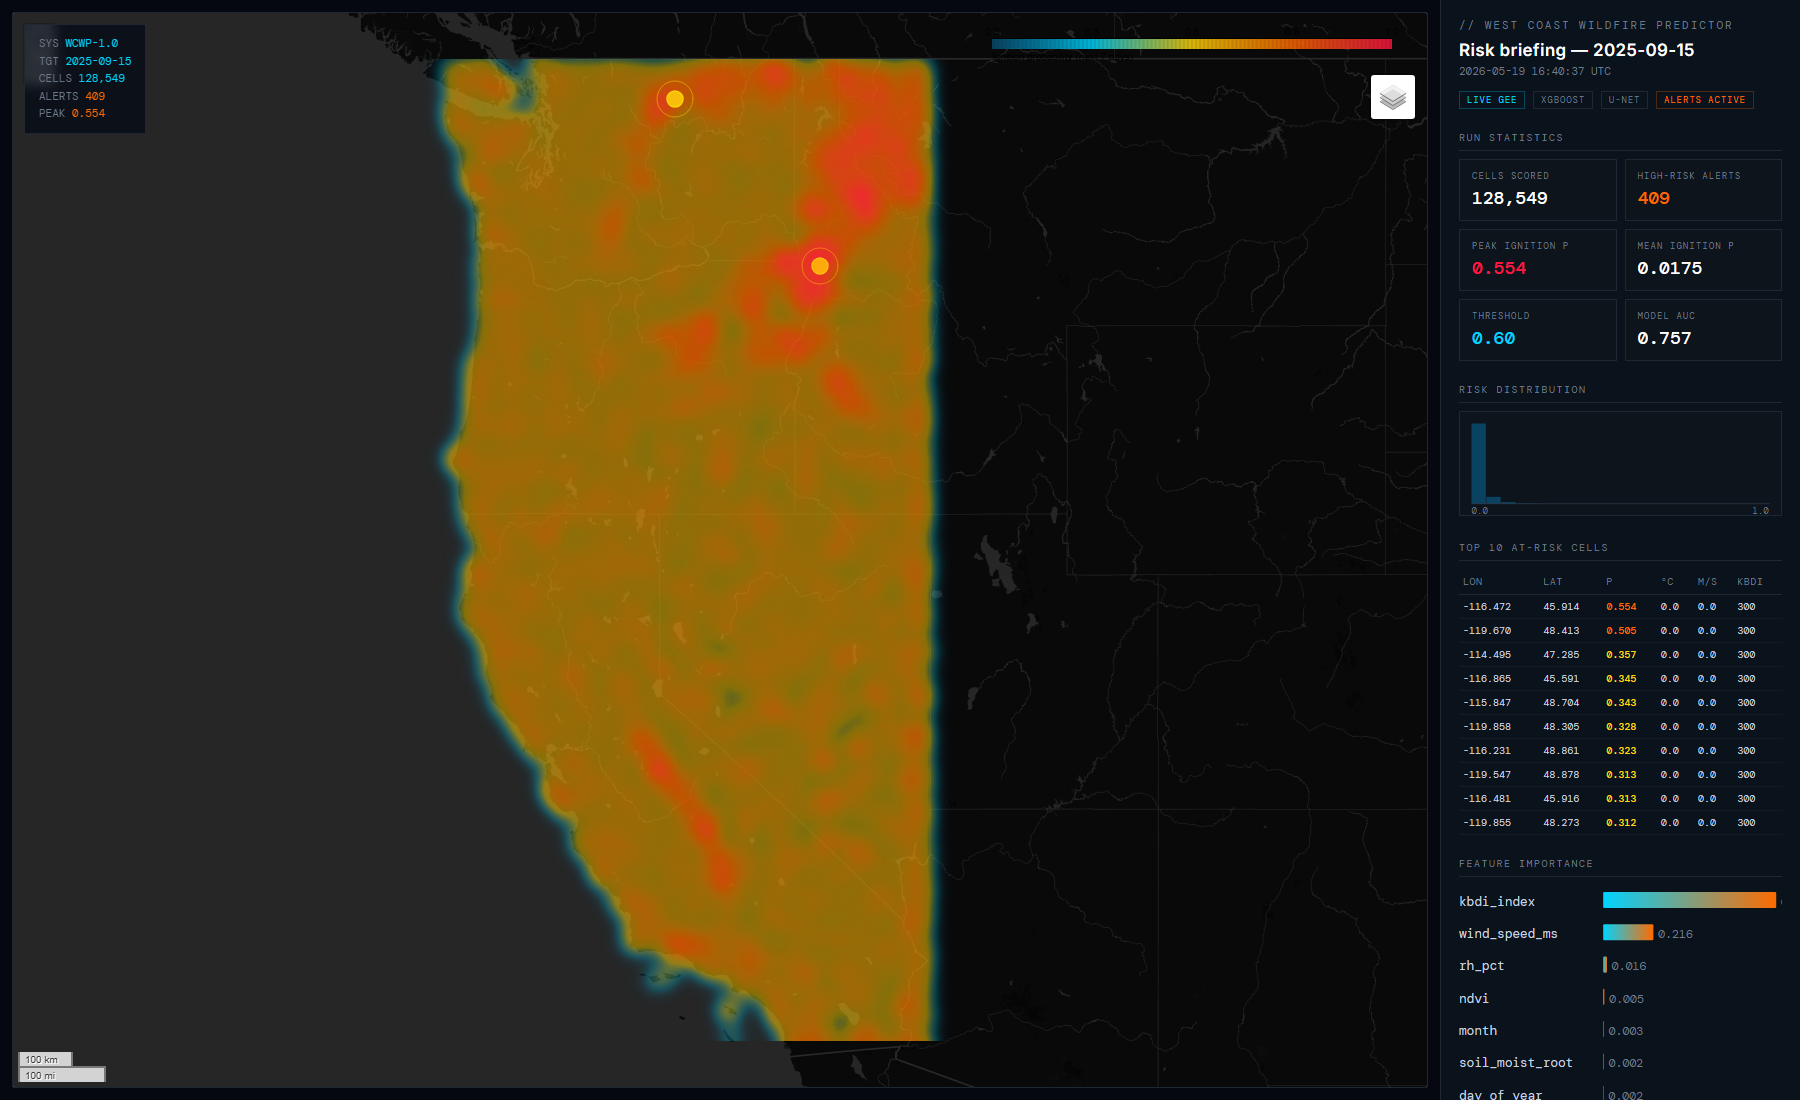
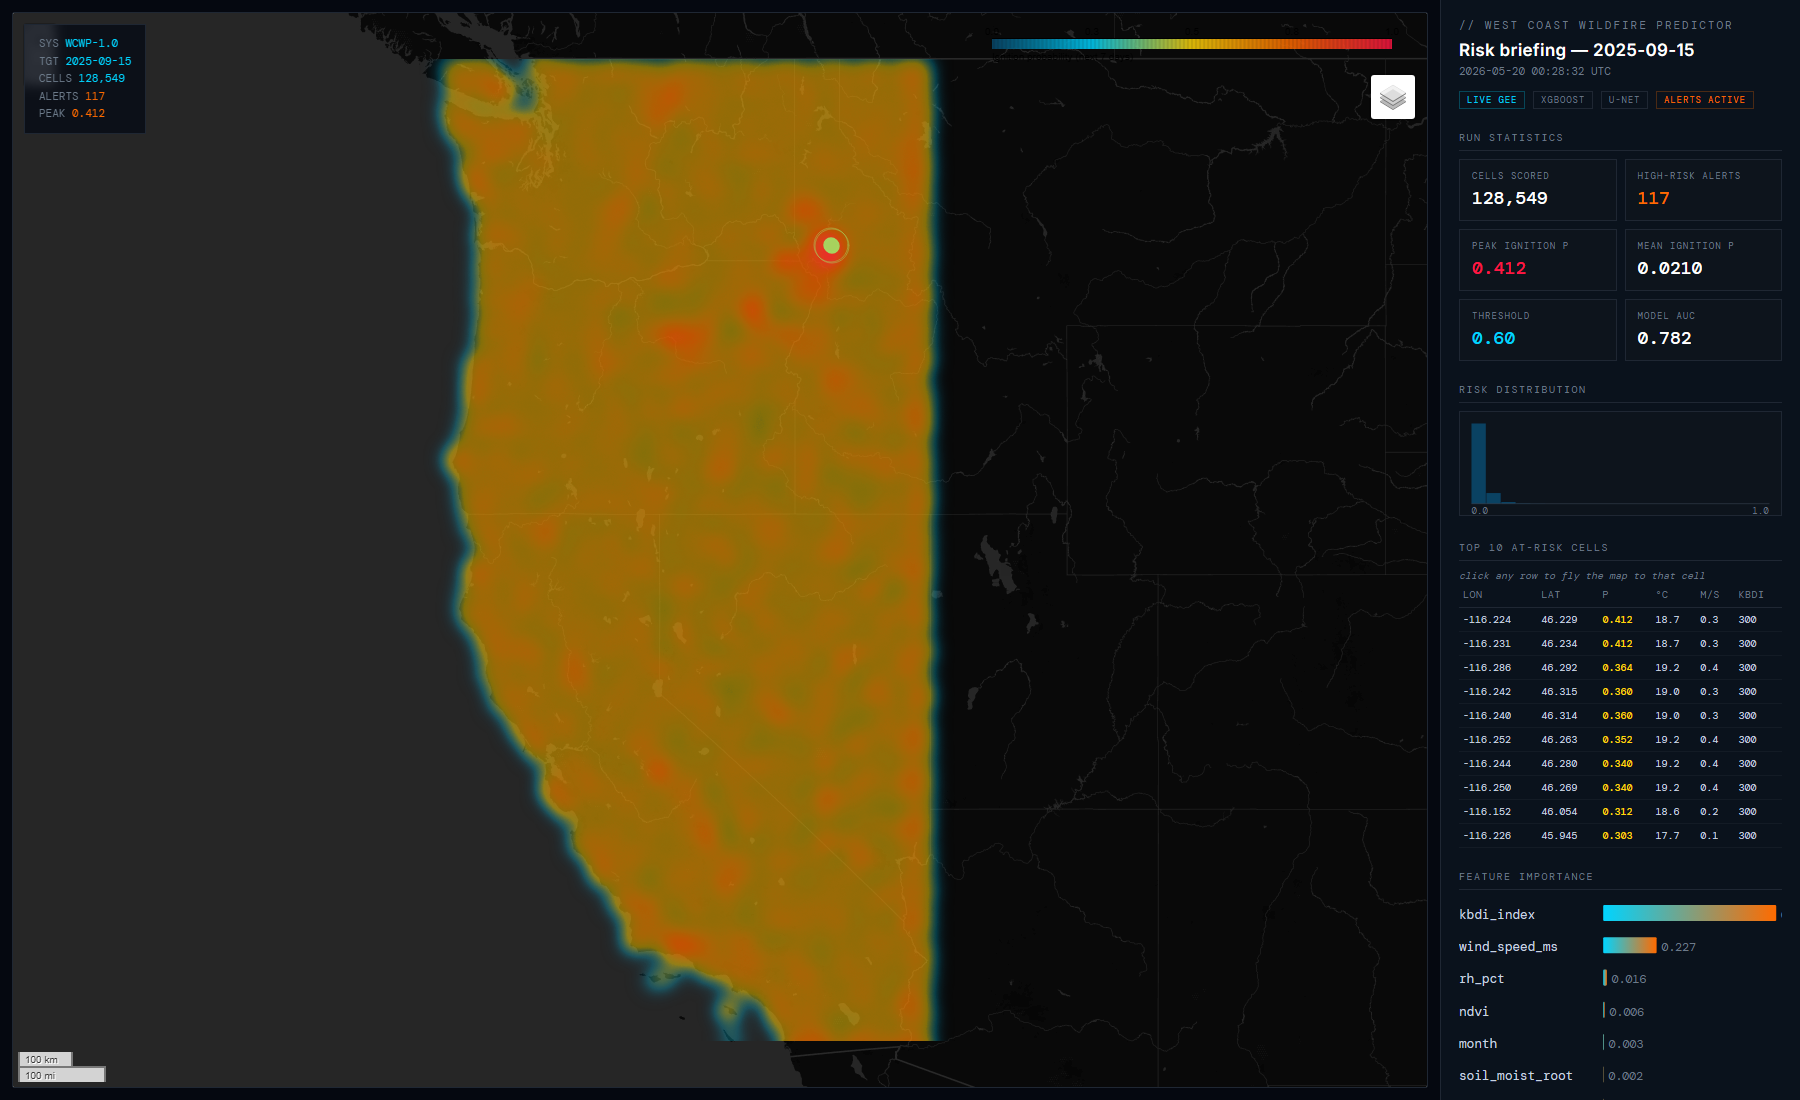
feat: clickable Top-10 rows — click any row to fly the map to that cell
Adds a postMessage bridge between the HUD shell and the folium iframe:

  * Each Top-10 table row now carries data-lat / data-lon attributes and
    a 'clickable' class with hover/active state styling.
  * On row click, the parent page postMessages {action: 'flyTo', lat, lon,
    zoom: 9} to the iframe's contentWindow.
  * Inside the iframe we inject a listener (just before </body>) that
    locates the folium-generated map_<hash> global, calls .flyTo() with a
    1.4s duration animation, and pulses a temporary 24-px cyan ring at the
    destination for 2.2s so the user can see where the map landed.

The folium iframe stays sandboxed (allow-scripts, allow-same-origin,
allow-popups) so the message channel still works.

Also re-rendered docs/screenshots/heatmap.png from the actual dashboard
now that temps and wind speeds are populated (predict.py fix in the
previous commit).

diff --git a/wildfire/heatmap.py b/wildfire/heatmap.py
@@ -241,7 +241,8 @@ def _hud_shell(map_html: str, scored: pd.DataFrame, meta: dict,
 
     top10 = scored.sort_values("fire_probability", ascending=False).head(10)
     top_rows = "".join(
-        f"<tr><td>{r['longitude']:.3f}</td><td>{r['latitude']:.3f}</td>"
+        f"<tr class='clickable' data-lat='{r['latitude']:.4f}' data-lon='{r['longitude']:.4f}'>"
+        f"<td>{r['longitude']:.3f}</td><td>{r['latitude']:.3f}</td>"
         f"<td class='p' style='color:{_band(r['fire_probability'])}'>"
         f"{r['fire_probability']:.3f}</td>"
         f"<td>{r.get('temp_c', 0):.1f}</td>"
@@ -314,7 +315,11 @@ th {{ color: #6c7a89; text-align: left; padding: 6px 4px; border-bottom: 1px sol
       font-weight: 400; letter-spacing: 0.05em; text-transform: uppercase; }}
 td {{ padding: 5px 4px; border-bottom: 1px solid #131b25; color: #c8d3e0; }}
 td.p {{ font-weight: 500; }}
-tr:hover td {{ background: #0d141c; }}
+tr.clickable {{ cursor: pointer; transition: background 0.1s; }}
+tr.clickable:hover td {{ background: #1a2532; color: #00d4ff; }}
+tr.clickable:active td {{ background: #00d4ff22; }}
+.hint {{ font-family: 'DM Mono', monospace; font-size: 10px; color: #6c7a89;
+        margin-top: 6px; font-style: italic; }}
 .meta {{ font-family: 'DM Mono', monospace; font-size: 10px; color: #6c7a89;
          line-height: 1.7; margin-top: 18px; padding-top: 14px;
          border-top: 1px solid #1f2733; }}
@@ -370,7 +375,8 @@ tr:hover td {{ background: #0d141c; }}
     {hist_svg}
 
     <h2>Top 10 at-risk cells</h2>
-    <table>
+    <div class="hint">click any row to fly the map to that cell</div>
+    <table id="top10">
       <thead><tr><th>Lon</th><th>Lat</th><th>p</th><th>°C</th><th>m/s</th><th>KBDI</th></tr></thead>
       <tbody>{top_rows}</tbody>
     </table>
@@ -389,6 +395,24 @@ tr:hover td {{ background: #0d141c; }}
     </div>
   </div>
 </div>
+
+<script>
+// Bridge between HUD table rows and the Leaflet map inside the iframe.
+// Each row carries data-lat/data-lon. On click we postMessage to the iframe
+// which has a listener that flies the Leaflet map to those coordinates.
+document.addEventListener('DOMContentLoaded', () => {{
+  const iframe = document.querySelector('.map iframe');
+  document.querySelectorAll('#top10 tbody tr.clickable').forEach(row => {{
+    row.addEventListener('click', () => {{
+      const lat = parseFloat(row.dataset.lat);
+      const lon = parseFloat(row.dataset.lon);
+      if (!isNaN(lat) && !isNaN(lon) && iframe && iframe.contentWindow) {{
+        iframe.contentWindow.postMessage({{action: 'flyTo', lat, lon, zoom: 9}}, '*');
+      }}
+    }});
+  }});
+}});
+</script>
 </body></html>
 """
 
@@ -412,10 +436,50 @@ def render(scored: pd.DataFrame, meta: dict, target_date: str, summary: dict,
     print(f"[heatmap] wrote {out_html}  ({out_html.stat().st_size / 1024:.0f} KB)")
 
 
+_MAP_BRIDGE_JS = """
+<script>
+// Listen for messages from the parent HUD shell. The parent posts
+// {action: 'flyTo', lat, lon, zoom} when a Top-10 row is clicked.
+// We find the folium-generated Leaflet map by looking for the
+// `map_<hash>` global that folium creates.
+(function() {
+  function findMap() {
+    for (const key of Object.keys(window)) {
+      if (key.startsWith('map_') && window[key] && typeof window[key].flyTo === 'function') {
+        return window[key];
+      }
+    }
+    return null;
+  }
+  window.addEventListener('message', function(evt) {
+    const d = evt.data || {};
+    if (d.action !== 'flyTo') return;
+    const m = findMap();
+    if (!m) return;
+    try {
+      m.flyTo([d.lat, d.lon], d.zoom || 9, {duration: 1.4});
+      // pulse a temporary marker at the destination
+      const ring = L.circleMarker([d.lat, d.lon], {
+        radius: 24, color: '#00d4ff', weight: 2, fill: false, opacity: 0.9
+      }).addTo(m);
+      setTimeout(() => m.removeLayer(ring), 2200);
+    } catch (e) {}
+  });
+})();
+</script>
+"""
+
+
 def _to_iframe(map_html: str) -> str:
     """Inline the folium map via a sandboxed srcdoc iframe so its <head> and JS
-    don't collide with our HUD shell."""
+    don't collide with our HUD shell. Injects a postMessage listener so the
+    parent table rows can pan the map."""
     import html as _h
+    # Inject the bridge before </body> in the folium HTML
+    if "</body>" in map_html:
+        map_html = map_html.replace("</body>", _MAP_BRIDGE_JS + "</body>", 1)
+    else:
+        map_html = map_html + _MAP_BRIDGE_JS
     return (f'<iframe srcdoc="{_h.escape(map_html, quote=True)}" '
             f'style="border:0; width:100%; height:100%;" '
             f'sandbox="allow-scripts allow-same-origin allow-popups"></iframe>')
